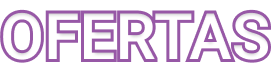
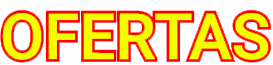
alterando cores

diff --git a/src/components/Header/styles.js b/src/components/Header/styles.js
@@ -19,7 +19,7 @@ gap: 30px;
 export const PageLink = styled.a`
 cursor: pointer;
 text-decoration: none;
-color: ${props => props.isActive ? '#9758A6' : '#555'};
+color: ${props => props.isActive ? '#ff0000' : '#555'};
 font-weight: ${props => props.isActive ? 'bold' : 'normal'};
 font-size: 16px;
 line-height: 19px;
@@ -51,5 +51,5 @@ cursor: pointer;
 font-size: 14px;
 font-weight: 700;
 line-height: 16.41px;
-color: #9758A6;
+color: #ff0000;
 `

diff --git a/src/components/Header/index.js b/src/components/Header/index.js
@@ -3,7 +3,7 @@ import { useHistory } from "react-router-dom/cjs/react-router-dom.min";
 
 import { useUser } from "../../hooks/UserContext";
 
-import Cart from '../../assets/cart-header.svg'
+import Cart from '../../assets/cart-header.png'
 import Person from '../../assets/person-header.png'
 
 import { Container, ContainerLeft, PageLink, ContainerRight, Line, ContainerText, PageLinkExit } from "./styles";

diff --git a/public/index.html b/public/index.html
@@ -3,7 +3,7 @@
 
 <head>
   <meta charset="utf-8" />
-  <link rel="icon" href="%PUBLIC_URL%/favicon.ico" />
+  <link rel="icon" href="./favicon.png" />
   <meta name="viewport" content="width=device-width, initial-scale=1" />
   <meta name="theme-color" content="#000000" />
   <meta name="description" content="Web site created using create-react-app" />

diff --git a/src/components/CategoryCarousel/styles.js b/src/components/CategoryCarousel/styles.js
@@ -26,6 +26,11 @@ export const Container = styled.div`
     background-color: #bebebf;
     color: #EFEFEF;
     }
+
+    .rec-dot_active{
+        background-color: #f6ff00;
+        box-shadow: 0 0 1px 3px #ff0000;
+    }
 `
 
 export const CategoryImg = styled.img`

diff --git a/src/components/OffersCarousel/styles.js b/src/components/OffersCarousel/styles.js
@@ -26,6 +26,11 @@ export const Container = styled.div`
     background-color: #bebebf;
     color: #EFEFEF;
     }
+
+    .rec-dot_active{
+        background-color: #f6ff00;
+        box-shadow: 0 0 1px 3px #ff0000;
+    }
 `
 
 export const OfferImg = styled.img`
